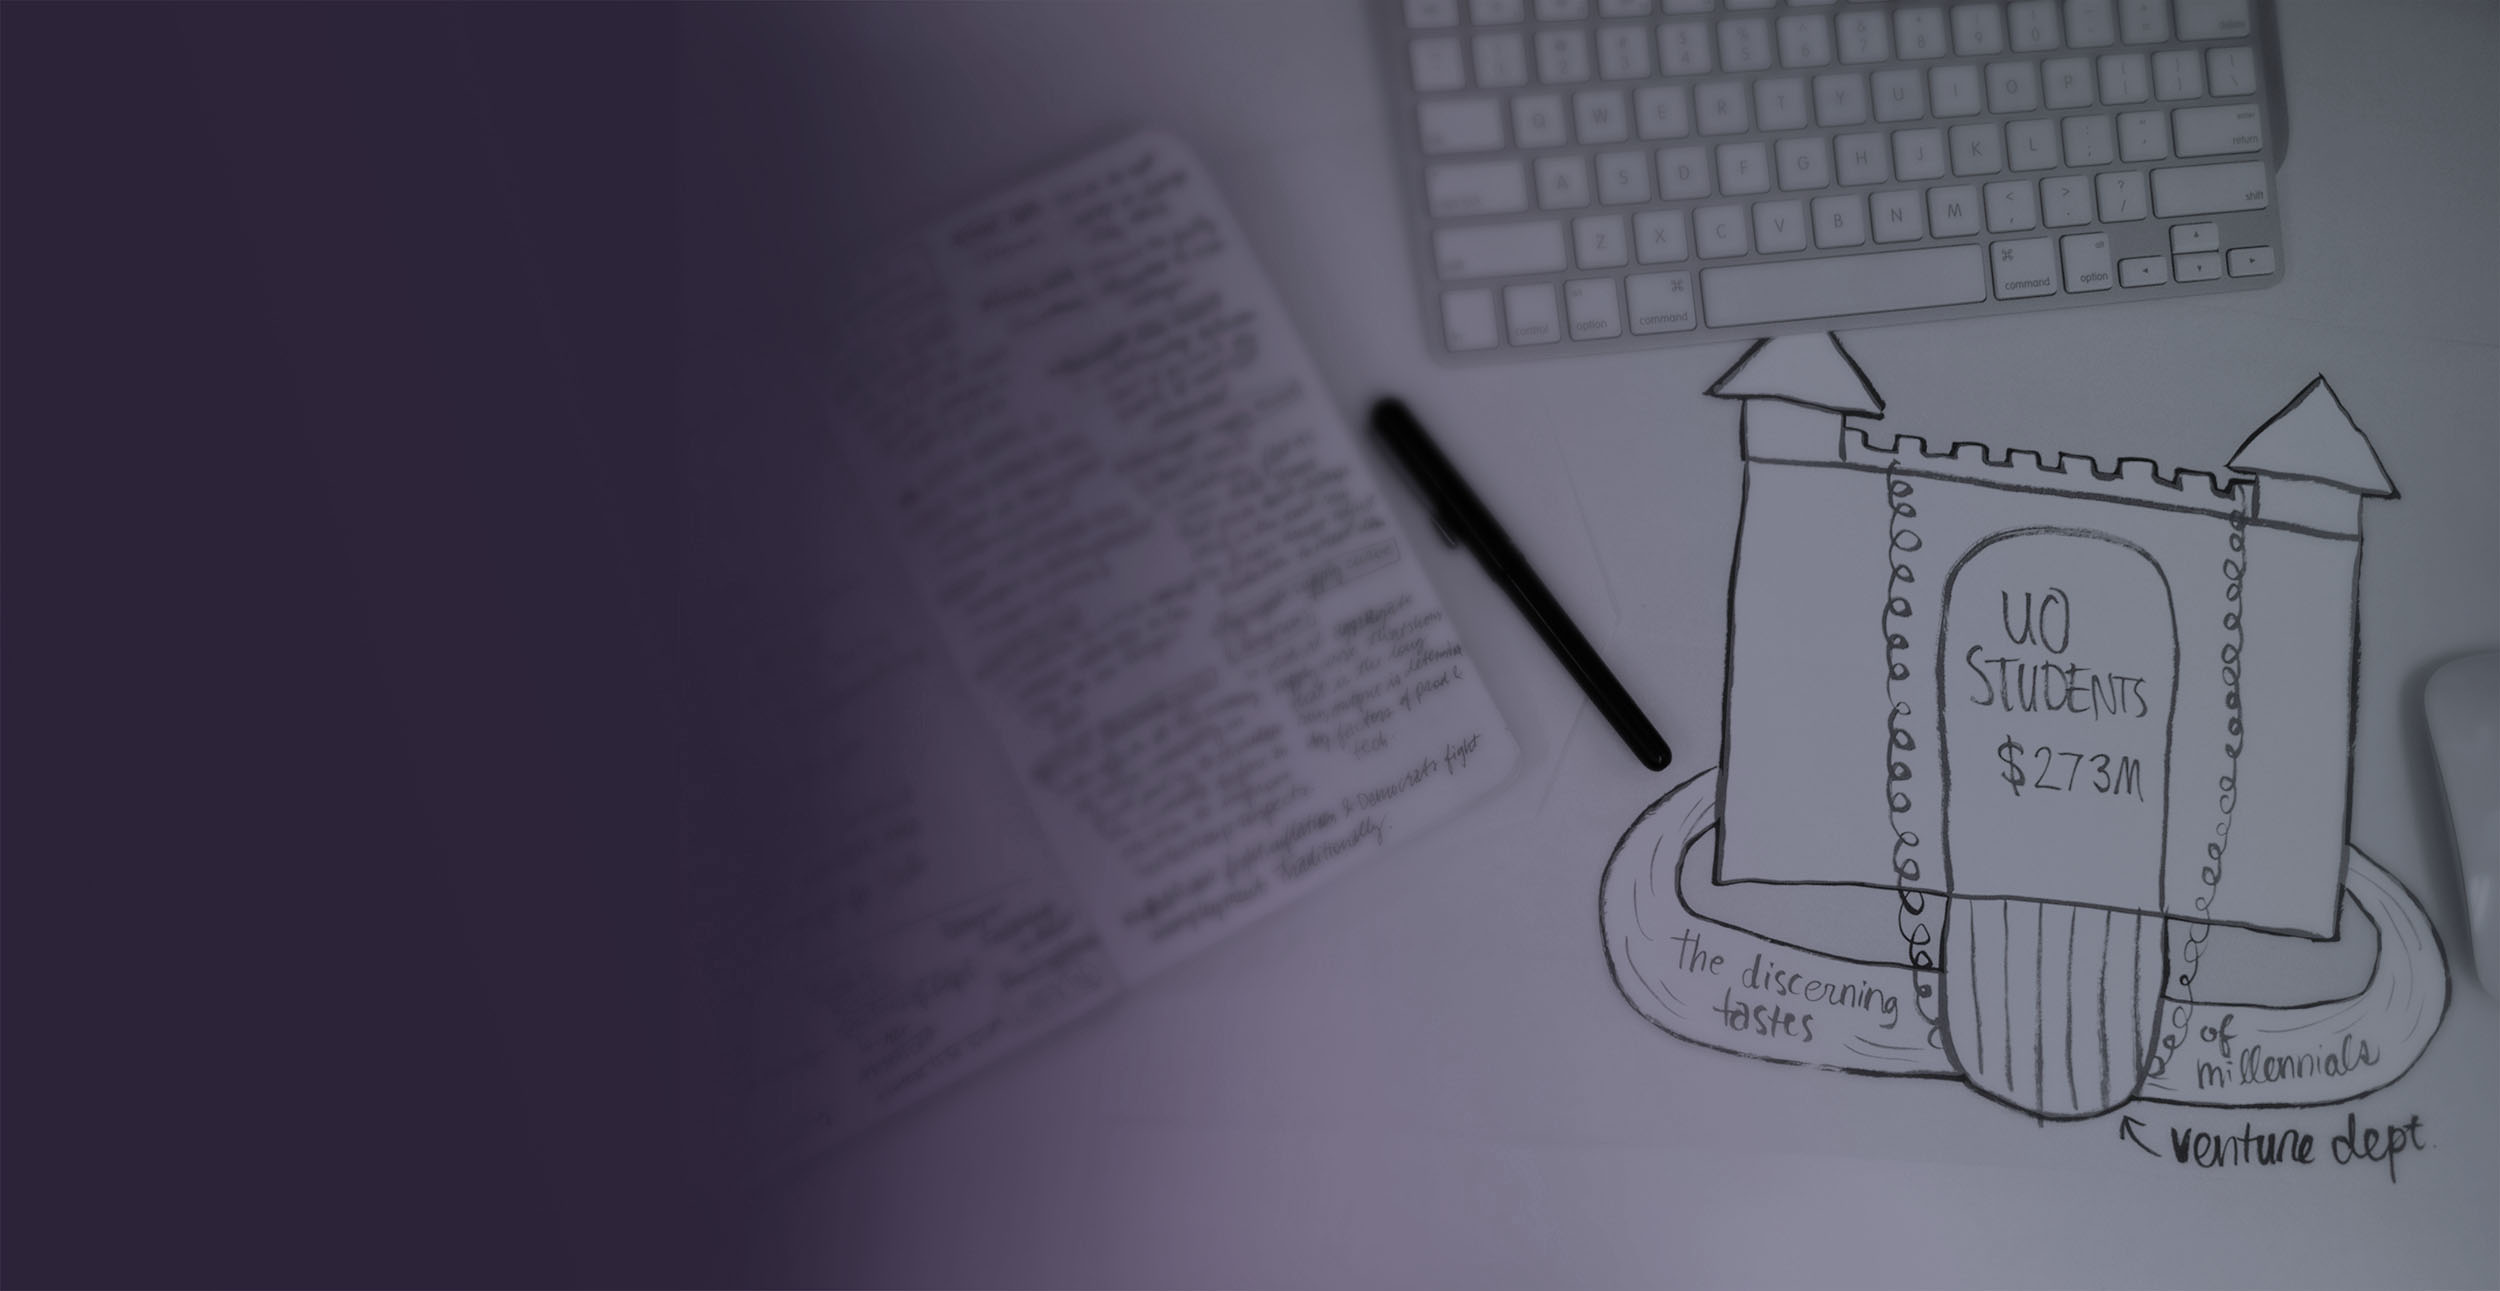
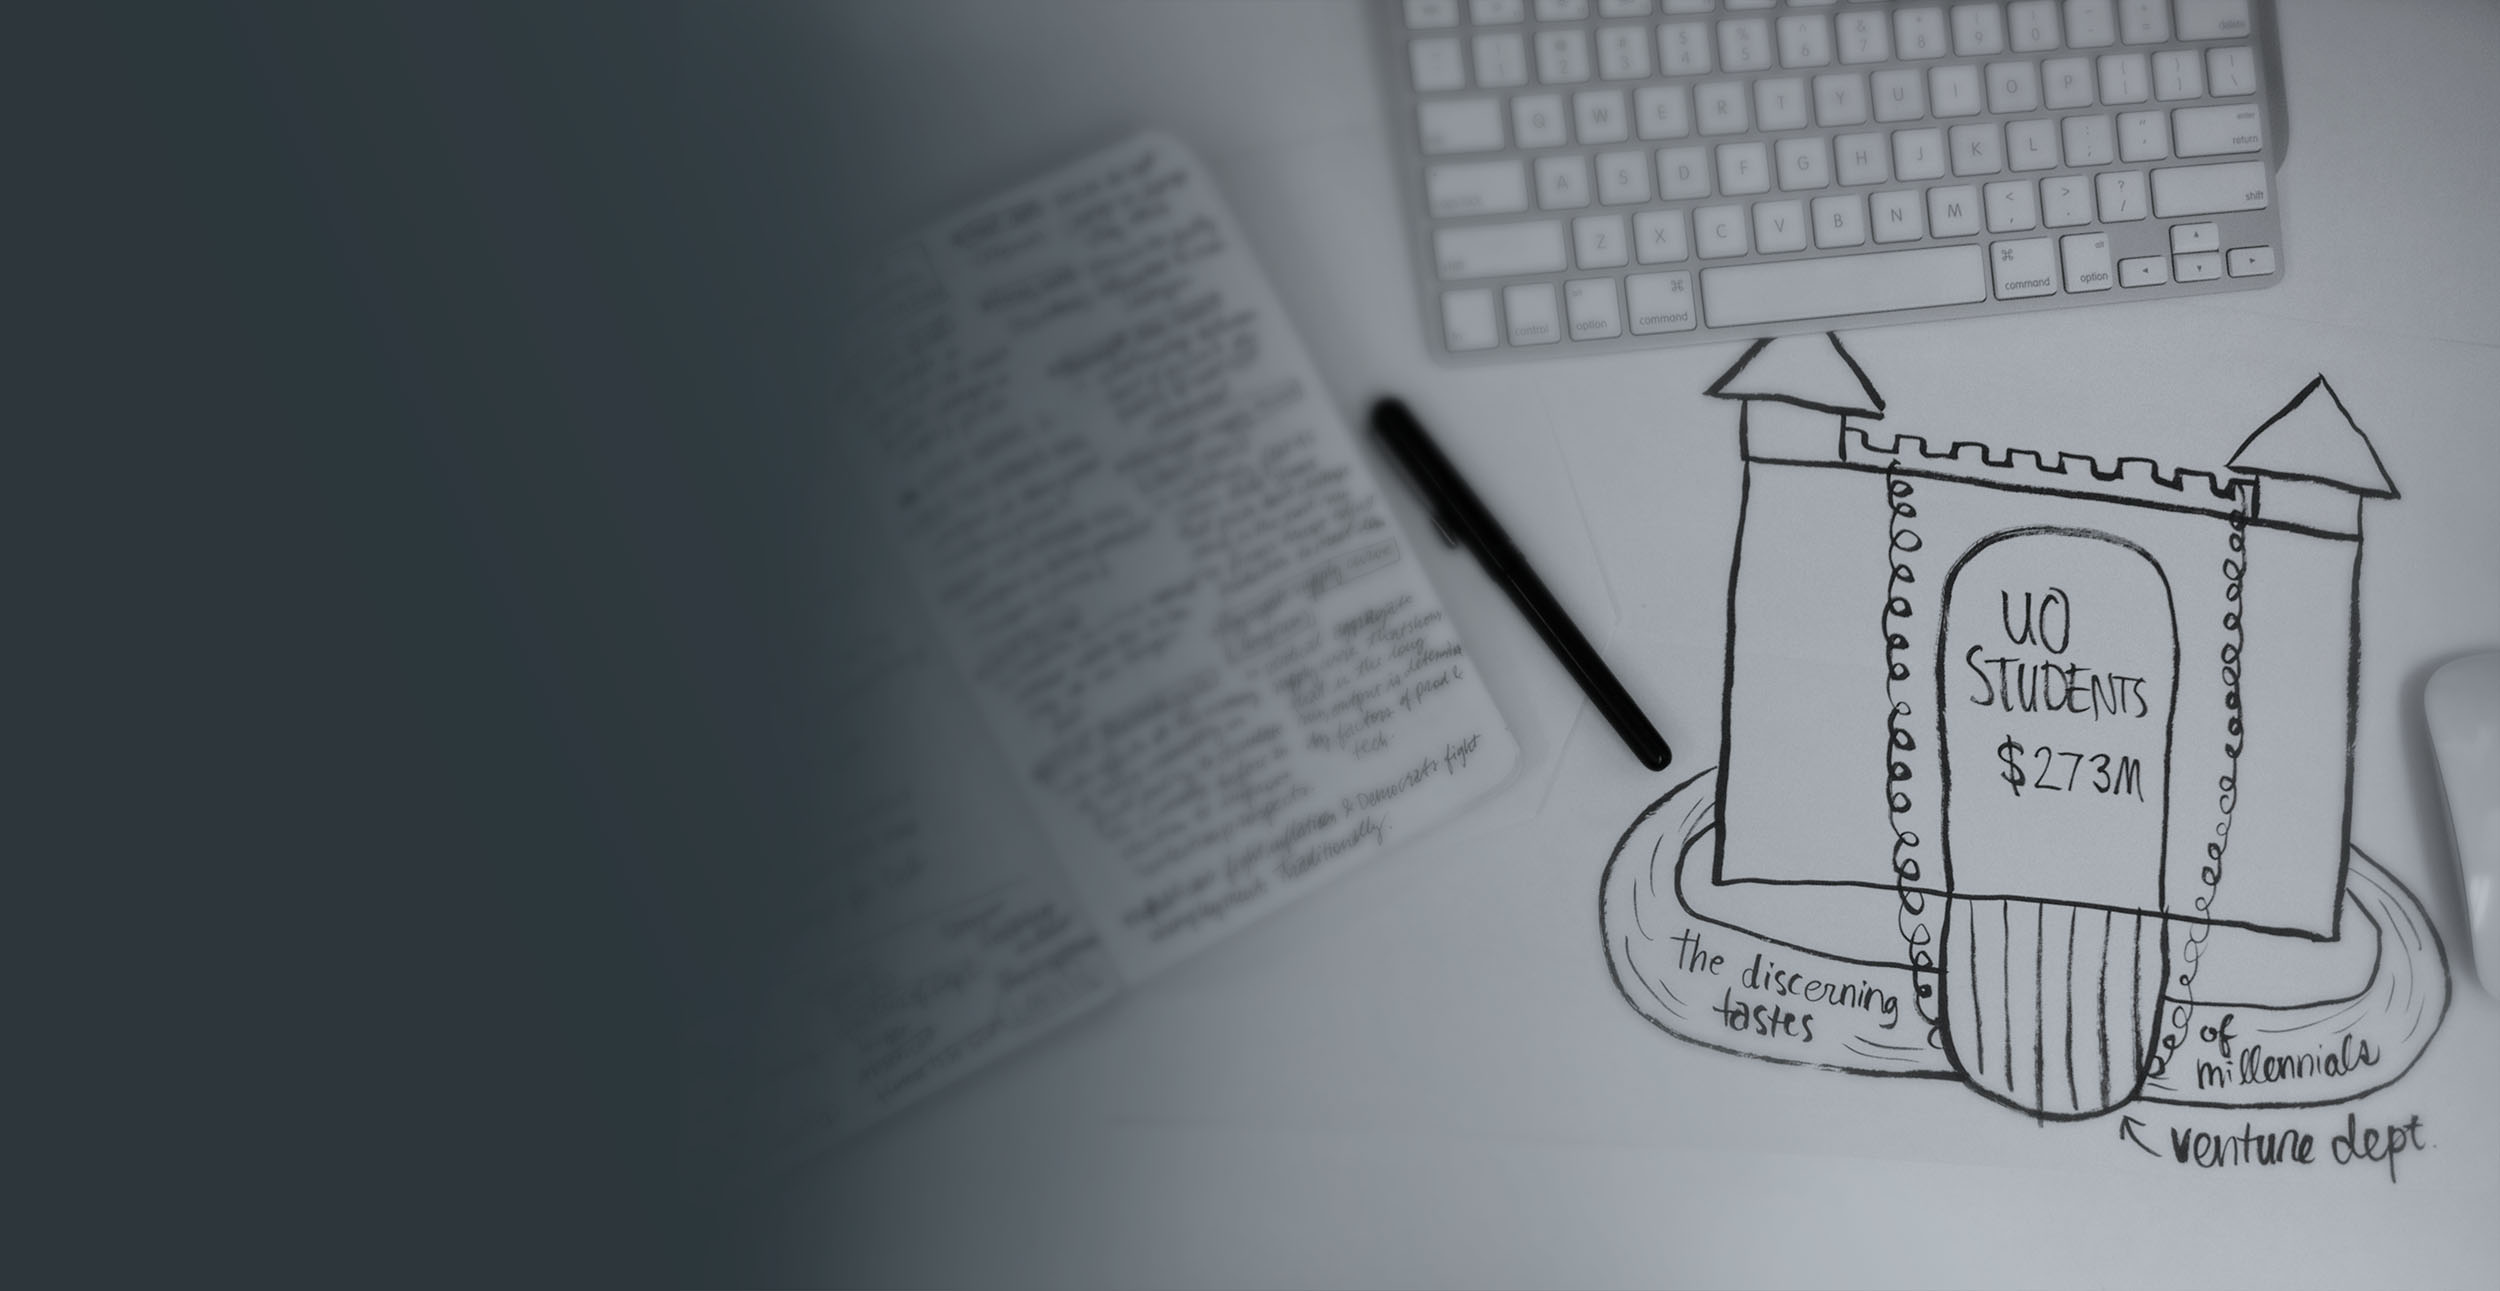
Better colors, cam's edits

diff --git a/index.html b/index.html
@@ -89,7 +89,7 @@
       </div>
       <div class="span3">
         <img class="service-icons" src="assets/icons/news.png">
-        <p class="services-title">Copywriting.</p>
+        <p class="services-title">Copywriting</p>
         <p>Because storytelling is at the very core of each of our projects, our writing staff is an adaptive group that has the capability to shift voices and media depending on each client's needs. Scriptwriting, blogging, and reports make up the primary pieces of our writing products, but our team is always excited to try their hands at something new.</p>
       </div>
       <div class="span3"></div>

diff --git a/style.css b/style.css
@@ -384,7 +384,6 @@ a:hover .caption-work {
       font-size: 24px;
     }
   }
-
 @media (max-width: 1300px) {
 .caption {
   font-size: 10px;
